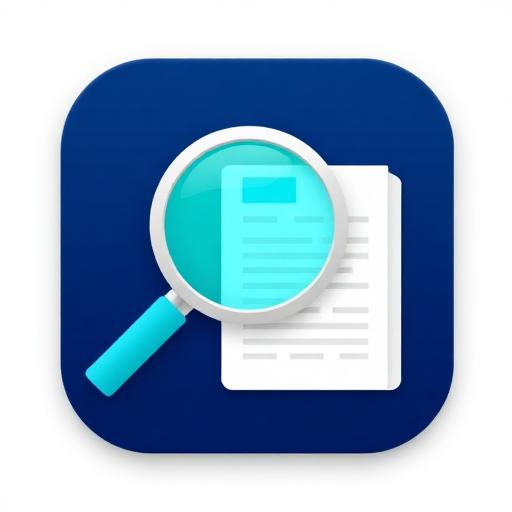
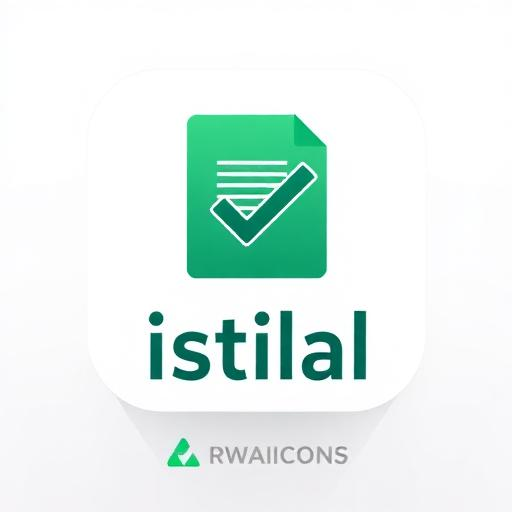
Changes

diff --git a/src/pages/Dashboard.tsx b/src/pages/Dashboard.tsx
@@ -136,56 +136,56 @@ export default function Dashboard() {
         {/* Stats Grid */}
         <div className="grid grid-cols-1 md:grid-cols-2 lg:grid-cols-4 gap-4">
           {role === 'customer' && (
-            <Card>
+            <Card className="border-l-4 border-l-emerald-500 bg-gradient-to-r from-emerald-50/50 to-transparent dark:from-emerald-950/20">
               <CardContent className="p-6">
                 <div className="flex items-center gap-4">
-                  <div className="h-12 w-12 rounded-lg bg-primary/10 flex items-center justify-center">
-                    <CreditCard className="h-6 w-6 text-primary" />
+                  <div className="h-12 w-12 rounded-xl bg-gradient-to-br from-emerald-500 to-teal-600 flex items-center justify-center shadow-lg">
+                    <CreditCard className="h-6 w-6 text-white" />
                   </div>
                   <div>
                     <p className="text-sm text-muted-foreground">Credit Balance</p>
-                    <p className="text-2xl font-bold">{profile?.credit_balance || 0}</p>
+                    <p className="text-2xl font-bold text-emerald-600 dark:text-emerald-400">{profile?.credit_balance || 0}</p>
                   </div>
                 </div>
               </CardContent>
             </Card>
           )}
-          <Card>
+          <Card className="border-l-4 border-l-amber-500 bg-gradient-to-r from-amber-50/50 to-transparent dark:from-amber-950/20">
             <CardContent className="p-6">
               <div className="flex items-center gap-4">
-                <div className="h-12 w-12 rounded-lg bg-accent/10 flex items-center justify-center">
-                  <Clock className="h-6 w-6 text-accent" />
+                <div className="h-12 w-12 rounded-xl bg-gradient-to-br from-amber-500 to-orange-600 flex items-center justify-center shadow-lg">
+                  <Clock className="h-6 w-6 text-white" />
                 </div>
                 <div>
                   <p className="text-sm text-muted-foreground">Pending</p>
-                  <p className="text-2xl font-bold">{stats.pending}</p>
+                  <p className="text-2xl font-bold text-amber-600 dark:text-amber-400">{stats.pending}</p>
                 </div>
               </div>
             </CardContent>
           </Card>
-          <Card>
+          <Card className="border-l-4 border-l-blue-500 bg-gradient-to-r from-blue-50/50 to-transparent dark:from-blue-950/20">
             <CardContent className="p-6">
               <div className="flex items-center gap-4">
-                <div className="h-12 w-12 rounded-lg bg-primary/10 flex items-center justify-center">
-                  <FileText className="h-6 w-6 text-primary" />
+                <div className="h-12 w-12 rounded-xl bg-gradient-to-br from-blue-500 to-indigo-600 flex items-center justify-center shadow-lg">
+                  <FileText className="h-6 w-6 text-white" />
                 </div>
                 <div>
                   <p className="text-sm text-muted-foreground">In Progress</p>
-                  <p className="text-2xl font-bold">{stats.inProgress}</p>
+                  <p className="text-2xl font-bold text-blue-600 dark:text-blue-400">{stats.inProgress}</p>
                 </div>
               </div>
             </CardContent>
           </Card>
           {role !== 'staff' && (
-            <Card>
+            <Card className="border-l-4 border-l-green-500 bg-gradient-to-r from-green-50/50 to-transparent dark:from-green-950/20">
               <CardContent className="p-6">
                 <div className="flex items-center gap-4">
-                  <div className="h-12 w-12 rounded-lg bg-secondary/10 flex items-center justify-center">
-                    <CheckCircle className="h-6 w-6 text-secondary" />
+                  <div className="h-12 w-12 rounded-xl bg-gradient-to-br from-green-500 to-emerald-600 flex items-center justify-center shadow-lg">
+                    <CheckCircle className="h-6 w-6 text-white" />
                   </div>
                   <div>
                     <p className="text-sm text-muted-foreground">Completed</p>
-                    <p className="text-2xl font-bold">{stats.completed}</p>
+                    <p className="text-2xl font-bold text-green-600 dark:text-green-400">{stats.completed}</p>
                   </div>
                 </div>
               </CardContent>
@@ -232,11 +232,11 @@ export default function Dashboard() {
         {/* Quick Actions */}
         {role === 'customer' && (
           <div className="grid md:grid-cols-2 gap-4">
-            <Card className="hover:border-primary/50 transition-colors cursor-pointer">
+            <Card className="hover:border-emerald-500/50 hover:shadow-lg hover:shadow-emerald-500/10 transition-all duration-300 cursor-pointer group">
               <Link to="/dashboard/upload">
                 <CardContent className="p-6 flex items-center gap-4">
-                  <div className="h-14 w-14 rounded-xl gradient-primary flex items-center justify-center">
-                    <Upload className="h-7 w-7 text-primary-foreground" />
+                  <div className="h-14 w-14 rounded-xl bg-gradient-to-br from-emerald-500 to-teal-600 flex items-center justify-center shadow-lg group-hover:scale-110 transition-transform">
+                    <Upload className="h-7 w-7 text-white" />
                   </div>
                   <div>
                     <h3 className="font-semibold text-lg">Upload Document</h3>
@@ -247,11 +247,11 @@ export default function Dashboard() {
                 </CardContent>
               </Link>
             </Card>
-            <Card className="hover:border-primary/50 transition-colors cursor-pointer">
+            <Card className="hover:border-teal-500/50 hover:shadow-lg hover:shadow-teal-500/10 transition-all duration-300 cursor-pointer group">
               <Link to="/dashboard/credits">
                 <CardContent className="p-6 flex items-center gap-4">
-                  <div className="h-14 w-14 rounded-xl gradient-success flex items-center justify-center">
-                    <CreditCard className="h-7 w-7 text-secondary-foreground" />
+                  <div className="h-14 w-14 rounded-xl bg-gradient-to-br from-teal-500 to-cyan-600 flex items-center justify-center shadow-lg group-hover:scale-110 transition-transform">
+                    <CreditCard className="h-7 w-7 text-white" />
                   </div>
                   <div>
                     <h3 className="font-semibold text-lg">Buy Credits</h3>

diff --git a/supabase/functions/send-welcome-email/index.ts b/supabase/functions/send-welcome-email/index.ts
@@ -3,7 +3,7 @@ import { createClient } from "https://esm.sh/@supabase/supabase-js@2";
 
 const SENDPULSE_API_KEY = Deno.env.get("SENDPLUS_API_KEY");
 const SENDPULSE_API_SECRET = Deno.env.get("SENDPLUS_API_SECRET");
-const SENDPULSE_FROM_EMAIL = Deno.env.get("SENDPLUS_FROM_EMAIL") || "noreply@plagaiscans.com";
+const SENDPULSE_FROM_EMAIL = Deno.env.get("SENDPLUS_FROM_EMAIL") || "noreply@istilal.com";
 
 const corsHeaders = {
   "Access-Control-Allow-Origin": "*",
@@ -61,7 +61,7 @@ async function sendEmailViaSendPulse(
         html: htmlBase64,
         subject: subject,
         from: {
-          name: "PlagaiScans",
+          name: "Istilal",
           email: SENDPULSE_FROM_EMAIL,
         },
         to: [
@@ -135,7 +135,7 @@ const handler = async (req: Request): Promise<Response> => {
     }
 
     const userName = fullName || "Customer";
-    const siteUrl = Deno.env.get("SITE_URL") || "https://plagaiscans.com";
+    const siteUrl = Deno.env.get("SITE_URL") || "https://istilal.com";
 
     const token = await getSendPulseToken();
 
@@ -150,19 +150,19 @@ const handler = async (req: Request): Promise<Response> => {
         <div style="max-width: 600px; margin: 0 auto; padding: 40px 20px;">
           <div style="background-color: white; border-radius: 12px; padding: 40px; box-shadow: 0 4px 6px rgba(0, 0, 0, 0.1);">
             <div style="text-align: center; margin-bottom: 30px;">
-              <div style="background: linear-gradient(135deg, #6366f1 0%, #8b5cf6 100%); width: 60px; height: 60px; border-radius: 12px; display: inline-flex; align-items: center; justify-content: center;">
+              <div style="background: linear-gradient(135deg, #10b981 0%, #14b8a6 100%); width: 60px; height: 60px; border-radius: 12px; display: inline-flex; align-items: center; justify-content: center;">
                 <span style="color: white; font-size: 28px;">🎉</span>
               </div>
             </div>
             
-            <h1 style="color: #18181b; text-align: center; margin: 0 0 10px 0; font-size: 24px;">Welcome to PlagaiScans!</h1>
+            <h1 style="color: #18181b; text-align: center; margin: 0 0 10px 0; font-size: 24px;">Welcome to Istilal!</h1>
             
             <p style="color: #71717a; text-align: center; margin: 0 0 30px 0;">Hello ${userName}, thank you for joining us!</p>
             
             <div style="background-color: #f4f4f5; border-radius: 8px; padding: 20px; margin-bottom: 20px;">
               <h3 style="color: #18181b; margin: 0 0 15px 0;">What you can do:</h3>
               <ul style="color: #71717a; margin: 0; padding-left: 20px;">
-                <li style="margin-bottom: 10px;">Upload documents for plagiarism and AI detection</li>
+                <li style="margin-bottom: 10px;">Upload documents for similarity and AI detection</li>
                 <li style="margin-bottom: 10px;">Get detailed similarity and AI reports</li>
                 <li style="margin-bottom: 10px;">Download professional reports</li>
                 <li style="margin-bottom: 0;">Track all your documents in one place</li>
@@ -175,14 +175,14 @@ const handler = async (req: Request): Promise<Response> => {
             
             <div style="text-align: center;">
               <a href="${siteUrl}/dashboard" 
-                 style="display: inline-block; background: linear-gradient(135deg, #6366f1 0%, #8b5cf6 100%); color: white; text-decoration: none; padding: 14px 28px; border-radius: 8px; font-weight: 600;">
+                 style="display: inline-block; background: linear-gradient(135deg, #10b981 0%, #14b8a6 100%); color: white; text-decoration: none; padding: 14px 28px; border-radius: 8px; font-weight: 600;">
                 Go to Dashboard
               </a>
             </div>
             
             <p style="color: #a1a1aa; text-align: center; margin: 30px 0 0 0; font-size: 12px;">
               If you have any questions, contact us via WhatsApp support.<br>
-              Thank you for choosing PlagaiScans! 🙏
+              Thank you for choosing Istilal! 🙏
             </p>
           </div>
         </div>
@@ -193,7 +193,7 @@ const handler = async (req: Request): Promise<Response> => {
     await sendEmailViaSendPulse(
       token,
       { email, name: userName },
-      "Welcome to PlagaiScans! 🎉",
+      "Welcome to Istilal! 🎉",
       htmlContent
     );
 

diff --git a/src/pages/Auth.tsx b/src/pages/Auth.tsx
@@ -243,10 +243,10 @@ export default function Auth() {
         <div className="w-full max-w-md animate-fade-in">
           <div className="text-center mb-8">
             <div className="inline-flex items-center gap-2 mb-4">
-              <div className="h-10 w-10 rounded-xl gradient-primary flex items-center justify-center">
-                <FileCheck className="h-6 w-6 text-primary-foreground" />
+              <div className="h-10 w-10 rounded-xl bg-gradient-to-br from-emerald-500 to-teal-600 flex items-center justify-center shadow-lg">
+                <FileCheck className="h-6 w-6 text-white" />
               </div>
-              <span className="font-display font-bold text-2xl">PlagaiScans</span>
+              <span className="font-display font-bold text-2xl bg-gradient-to-r from-emerald-600 to-teal-600 bg-clip-text text-transparent">Istilal</span>
             </div>
             <p className="text-muted-foreground">Set your new password</p>
           </div>
@@ -324,10 +324,10 @@ export default function Auth() {
         <div className="w-full max-w-md animate-fade-in">
           <div className="text-center mb-8">
             <div className="inline-flex items-center gap-2 mb-4">
-              <div className="h-10 w-10 rounded-xl gradient-primary flex items-center justify-center">
-                <FileCheck className="h-6 w-6 text-primary-foreground" />
+              <div className="h-10 w-10 rounded-xl bg-gradient-to-br from-emerald-500 to-teal-600 flex items-center justify-center shadow-lg">
+                <FileCheck className="h-6 w-6 text-white" />
               </div>
-              <span className="font-display font-bold text-2xl">PlagaiScans</span>
+              <span className="font-display font-bold text-2xl bg-gradient-to-r from-emerald-600 to-teal-600 bg-clip-text text-transparent">Istilal</span>
             </div>
             <p className="text-muted-foreground">Reset your password</p>
           </div>
@@ -373,16 +373,16 @@ export default function Auth() {
 
   return (
     <div className="min-h-screen bg-background flex items-center justify-center p-4">
-      <div className="w-full max-w-md animate-fade-in">
-        <div className="text-center mb-8">
-          <div className="inline-flex items-center gap-2 mb-4">
-            <div className="h-10 w-10 rounded-xl gradient-primary flex items-center justify-center">
-              <FileCheck className="h-6 w-6 text-primary-foreground" />
+        <div className="w-full max-w-md animate-fade-in">
+          <div className="text-center mb-8">
+            <div className="inline-flex items-center gap-2 mb-4">
+              <div className="h-10 w-10 rounded-xl bg-gradient-to-br from-emerald-500 to-teal-600 flex items-center justify-center shadow-lg">
+                <FileCheck className="h-6 w-6 text-white" />
+              </div>
+              <span className="font-display font-bold text-2xl bg-gradient-to-r from-emerald-600 to-teal-600 bg-clip-text text-transparent">Istilal</span>
             </div>
-            <span className="font-display font-bold text-2xl">PlagaiScans</span>
+            <p className="text-muted-foreground">Document Similarity & AI Detection Platform</p>
           </div>
-          <p className="text-muted-foreground">Document Plagiarism & AI Detection Platform</p>
-        </div>
 
         <Card>
           <Tabs defaultValue="login">

diff --git a/src/components/DashboardSidebar.tsx b/src/components/DashboardSidebar.tsx
@@ -612,13 +612,13 @@ export const DashboardSidebar: React.FC = () => {
       >
         <div className="p-6 border-b border-border">
           <Link to="/" className="flex items-center gap-2" onClick={() => setIsOpen(false)}>
-            <div className="h-8 w-8 rounded-lg gradient-primary flex items-center justify-center">
-              <FileCheck className="h-5 w-5 text-primary-foreground" />
+            <div className="h-8 w-8 rounded-lg bg-gradient-to-br from-emerald-500 to-teal-600 flex items-center justify-center shadow-lg">
+              <FileCheck className="h-5 w-5 text-white" />
             </div>
-            <span className="font-display font-bold text-lg">PlagaiScans</span>
+            <span className="font-display font-bold text-lg bg-gradient-to-r from-emerald-600 to-teal-600 bg-clip-text text-transparent">Istilal</span>
           </Link>
           <div className="flex items-center gap-1.5 mt-2 ml-10">
-            <span className="text-xs text-muted-foreground">Advanced Plagiarism Detection</span>
+            <span className="text-xs text-muted-foreground">Document Similarity Detection</span>
           </div>
         </div>
 

diff --git a/src/components/DashboardHeader.tsx b/src/components/DashboardHeader.tsx
@@ -51,10 +51,10 @@ export const DashboardHeader: React.FC = () => {
         {/* Left side - Logo */}
         <div className="flex items-center gap-3">
           <div className="flex items-center gap-2">
-            <div className="h-8 w-8 rounded-lg gradient-primary flex items-center justify-center">
-              <span className="text-primary-foreground font-bold text-sm">P</span>
+            <div className="h-8 w-8 rounded-lg bg-gradient-to-br from-emerald-500 to-teal-600 flex items-center justify-center shadow-lg">
+              <span className="text-white font-bold text-sm">I</span>
             </div>
-            <span className="font-display font-semibold text-lg hidden sm:block">PlagiScans</span>
+            <span className="font-display font-semibold text-lg hidden sm:block bg-gradient-to-r from-emerald-600 to-teal-600 bg-clip-text text-transparent">Istilal</span>
           </div>
         </div>
 

diff --git a/src/components/Navigation.tsx b/src/components/Navigation.tsx
@@ -18,8 +18,13 @@ const Navigation = () => {
       <div className="container-width px-6 md:px-12">
         <div className="flex items-center justify-between h-16 md:h-20">
           {/* Logo */}
-          <a href="#" className="text-xl md:text-2xl font-display font-bold gradient-text">
-            STUDIO
+          <a href="#" className="flex items-center gap-2">
+            <div className="h-8 w-8 rounded-lg bg-gradient-to-br from-emerald-500 to-teal-600 flex items-center justify-center shadow-lg">
+              <span className="text-white font-bold text-sm">I</span>
+            </div>
+            <span className="text-xl md:text-2xl font-display font-bold bg-gradient-to-r from-emerald-600 to-teal-600 bg-clip-text text-transparent">
+              Istilal
+            </span>
           </a>
 
           {/* Desktop Navigation */}

diff --git a/src/components/DashboardLayout.tsx b/src/components/DashboardLayout.tsx
@@ -9,10 +9,10 @@ interface DashboardLayoutProps {
 
 export const DashboardLayout: React.FC<DashboardLayoutProps> = ({ children }) => {
   return (
-    <div className="min-h-screen bg-background">
+    <div className="min-h-screen bg-gradient-to-br from-background via-background to-emerald-50/10 dark:to-emerald-950/10">
       <DashboardHeader />
       <DashboardSidebar />
-      <main className="p-8 pt-24">
+      <main className="p-4 md:p-8 pt-20 md:pt-24">
         {children}
       </main>
       <WhatsAppSupportButton />
